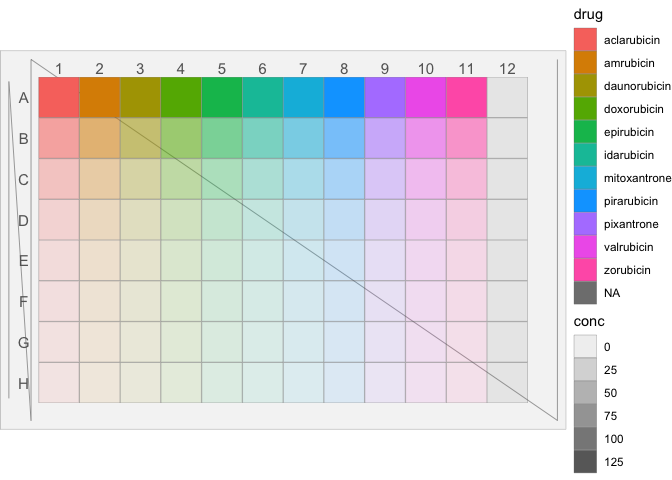
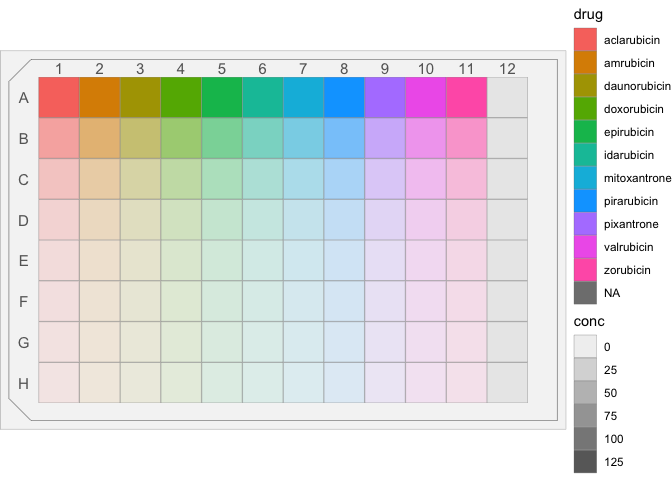
fix notched border data order for updated ggplot2. bump version

Changed region(s): [[0.0312, 0.5312, 0.0625, 0.875], [0.4375, 0.5, 0.4688, 0.5312], [0.0312, 0.125, 0.0625, 0.1562]]

diff --git a/README.md b/README.md
@@ -19,6 +19,7 @@ Easily view your microtitre plate data
 View your data in place interactively with `mtp_view()`.
 
 ``` r
+library(tidyverse)
 # mtp_example1 %>% mtp_view()
 # mtp_example1 %>% mtp_view(fillVar = "drug")
 mtp_example1 %>% mtp_view(fillVar = "drug", fillOpacityVar = "conc")
